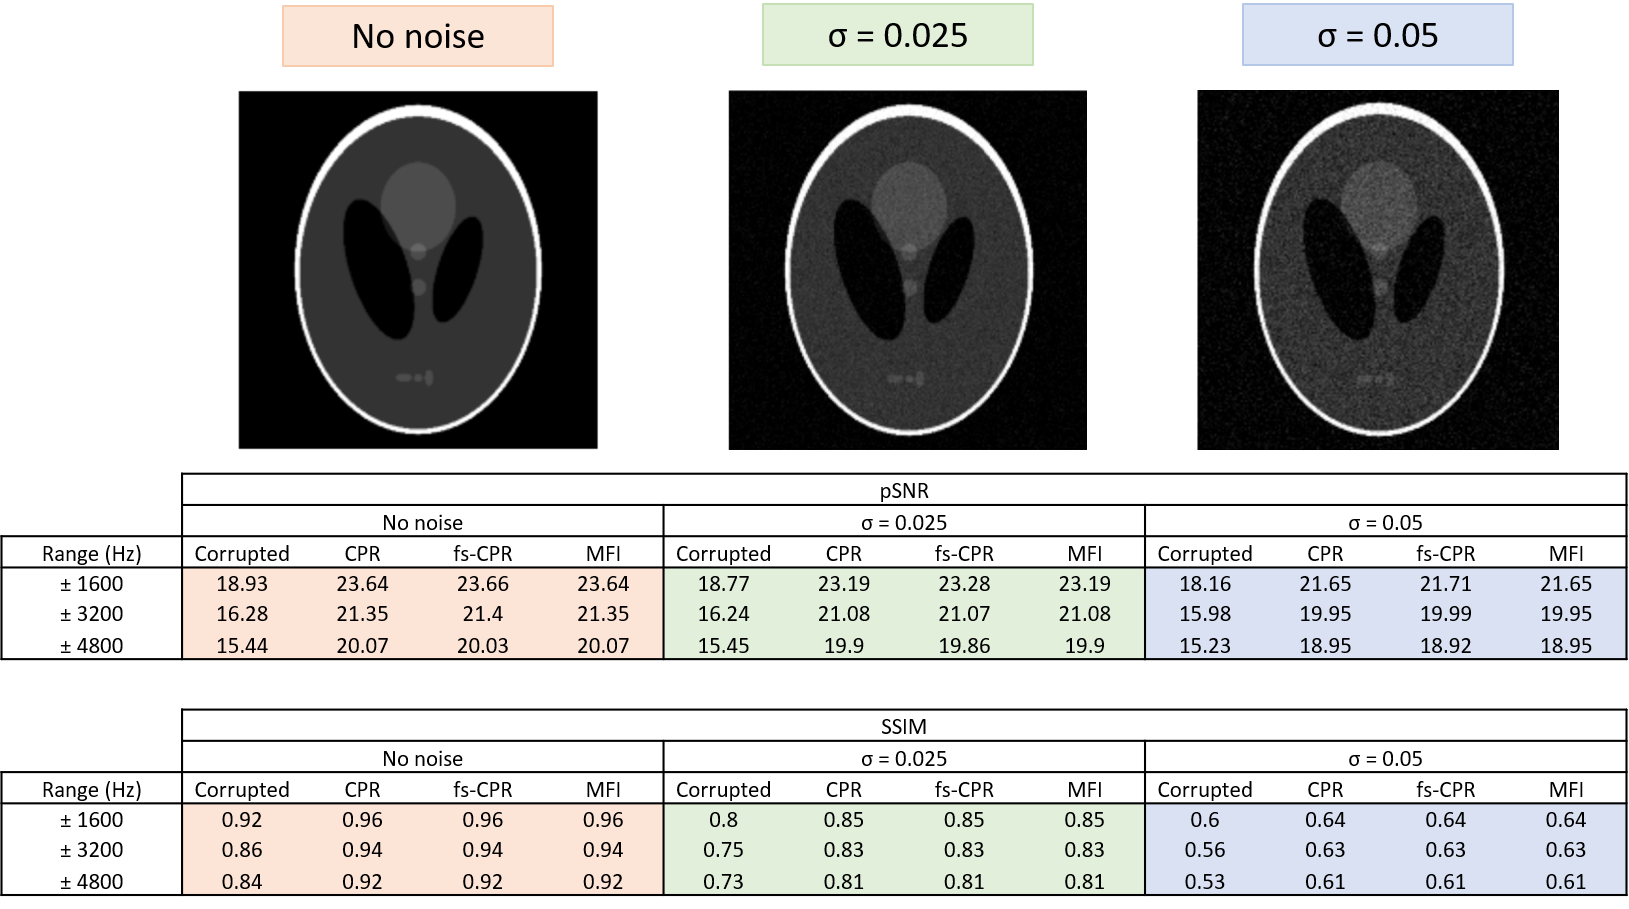
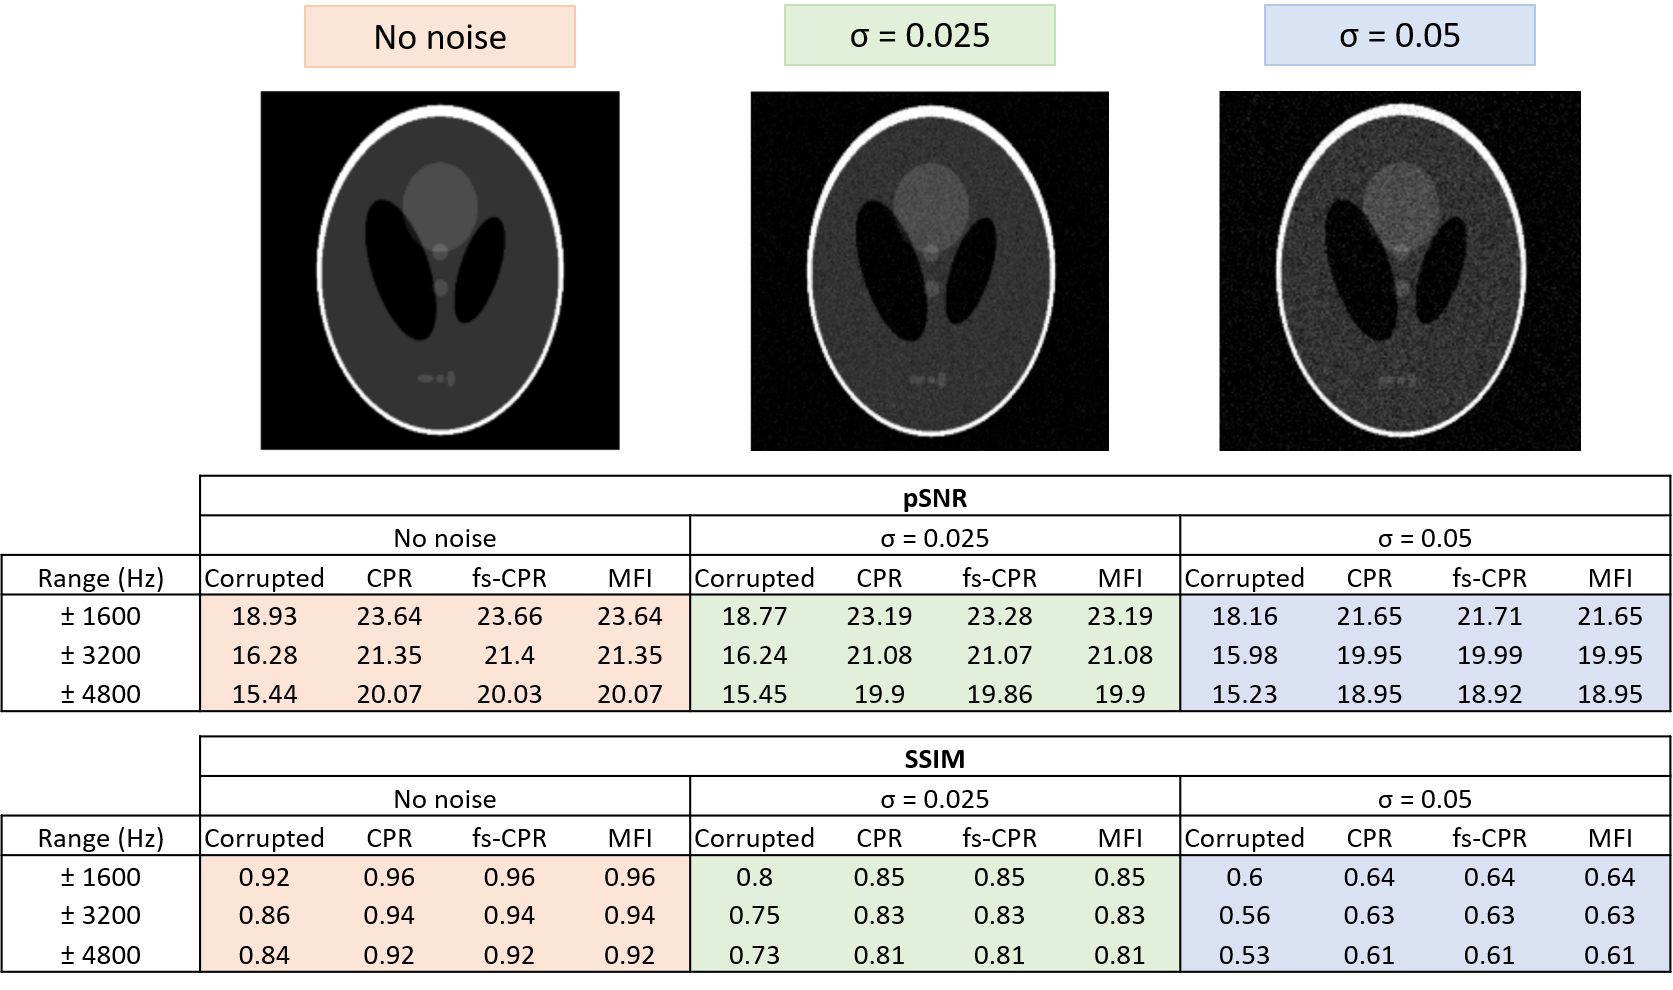
Minor changes to manuscript + table with larger font size

Changed region(s): [[0.0, 0.0, 1.0, 0.9857], [0.3376, 0.0, 0.3683, 0.0616]]

diff --git a/paper.md b/paper.md
@@ -7,17 +7,19 @@ tags:
 authors:
   - name: Marina Manso Jimeno
     orcid: 0000-0002-1141-2049
-    affiliation: 1
+    affiliation: 1,2
   - name: John Thomas Vaughan Jr.
     orcid: 0000-0002-6933-3757
-    affiliation: 1
+    affiliation: 1,2
   - name: Sairam Geethanath
     orcid: 0000-0002-3776-4114
-    affiliation: 1
+    affiliation: 2
 
 affiliations:
- - name: Columbia Magnetic Resonance Research Center, Columbia University in the City of New York, USA
+ - name: Department of Biomedical Engineering, Columbia University in the City of New York, USA
    index: 1
+ - name: Columbia Magnetic Resonance Research Center, Columbia University in the City of New York, USA
+   index: 2
 date: 15 OCTOBER 2020
 bibliography: paper.bib
 ---
@@ -26,8 +28,8 @@ bibliography: paper.bib
 
 `OCTOPUS` is a Python-based software for correction of off-resonance
 artifacts in Magnetic Resonance (MR) images. It implements three different
-methods for correction of both Cartesian and non-Cartesian data. These methods are Conjugate Phase Reconstruction (CPR), 
-frequency-segmented CPR and Multi-Frequency Interpolation(MFI).`OCTOPUS` is easy to integrate into other two-dimensional reconstruction pipelines, which makes the tool highly flexible 
+methods for correction of both Cartesian and non-Cartesian data: Conjugate Phase Reconstruction (CPR), 
+frequency-segmented CPR and Multi-Frequency Interpolation(MFI). `OCTOPUS` is easy to integrate into other two-dimensional reconstruction pipelines, which makes the tool highly flexible 
 and customizable.
 
 # Statement of need
@@ -38,7 +40,7 @@ read-out direction, which can turn into blurring, geometrical distortion
 and degradation in the reconstructed image [@LukPat2001]. Images
 acquired using long readout trajectories and/or at high fields where the
 field homogeneity is lower, are more prone to this problem. However,
-such an acquisition scenario also delivers desirable properties, such as
+such acquisition scenarios also deliver desirable properties, such as
 short scanning times, gradient efficiency, motion tolerance and better
 signal-to-noise ratio [@Chen2008].
 
@@ -63,13 +65,13 @@ MFI implementation for Magnetic Resonance Fingerprinting (MRF)
 correction part of the FSL library [@Jenkinson2012]; and the MIRT
 toolbox, a MATLAB-based MRI reconstruction package that offers field
 inhomogeneity correction using iterative reconstruction
-methods[@Sutton2003; @Fessler2005]. Nylund's thesis [@Nylund2014] also
+methods [@Sutton2003; @Fessler2005]. Nylund's thesis [@Nylund2014] also
 contains source MATLAB code for fs-CPR and MFI correction of spiral
 images.
 
 All of the mentioned implementations are highly specific, defined for a
 particular k-space trajectory, application and/or include a single
-correction method. To exemplify some: SPIRiT is devoted to correct data acquired using 
+correction method. SPIRiT is devoted to correct data acquired using 
 parallel imaging methods, Ostenson's package only corrects MRF spiral data and implements 
 only one correction method and FUGUE corrects distortion solely on EPI images. These limitations typically lead researchers to
 adapt their data in an attempt to fit it into the available pipelines
@@ -82,19 +84,18 @@ available packages are also MATLAB-based, which unlike Python, requires users to
 Python open-source code for three fundamental methods (CPR, fs-CPR and
 MFI). The implementation is independent of the application and the image
 acquisition scheme, easing its integration into any reconstruction
-pipeline. `OCTOPUS` can also run in the browser through Google Colab, a free hosted jupyter notebook environment that allows to execute Python code in the browser.
+pipeline. `OCTOPUS` can also run in the browser through Google Colab, a freely hosted jupyter notebook environment that allows to execute Python code in the browser.
 Given this feature, `OCTOPUS` is the first zero-footprint off-resonance
 correction software, meaning it doesn't necessarily require software download, installation or configuration in the user's local machine.
 
 # Functionality and limitations
 `OCTOPUS` is aimed at MR researchers working with long-readout or field-inhomogeneity sensitive k-space trajectories or 
-MR acquisition methods. A short demo is provided in the next section. The presented tool
-will correct or reduce geometric distortion and/or blurring present in the images due to off-resonance effects by 
+MR acquisition methods. A short demo is provided in the next section. `OCTOPUS` corrects or reduces geometric distortion and/or blurring present in the images due to off-resonance effects by 
 leveraging other Python libraries, specifically NumPy [@2020NumPy], SciPy [@2020SciPy], scikit-image [@scikit-image], 
 NiBabel[@Nibabel], Matplotlib [@Matplotlib], OpenCV [@itseez2015opencv], Pydicom [@darcy_mason_2020_3891702], and PyNUFFT[@pynufft]. 
-The expected outputs is an image with recovered, sharper edges and undistorted shape.
+The expected output is an image with recovered, sharper edges and undistorted shape.
 
-`OCTOPUS` corrects off-resonance independently of the trajectory used to acquire the data being Cartesian or non-Cartesian. 
+Also, `OCTOPUS` corrects off-resonance independently of the trajectory used to acquire the data being Cartesian or non-Cartesian. 
 The input of the correction methods could be either image or raw data, although using raw data is more efficient
 and may avoid trajectory-dependent artifacts in the case of non-cartesian data.
 
@@ -106,7 +107,7 @@ fields. Additionally, the tool has been only tested on Cartesian and spiral data
 To illustrate the usage of the package we performed in silico numerical
 simulations using a Cartesian trajectory, a spiral trajectory and a
 simulated field map. For these experiments we used a Shepp-Logan head phantom, widely used
-to test reconstruction algorithms [@Gonzalez2001].  The procedure steps were:
+to test reconstruction algorithms [@Gonzalez2001].  The steps were:
 
 1. Forward model simulation of off-resonance effect on a 192x192
    Shepp-Logan phantom (Figure 1.A).
